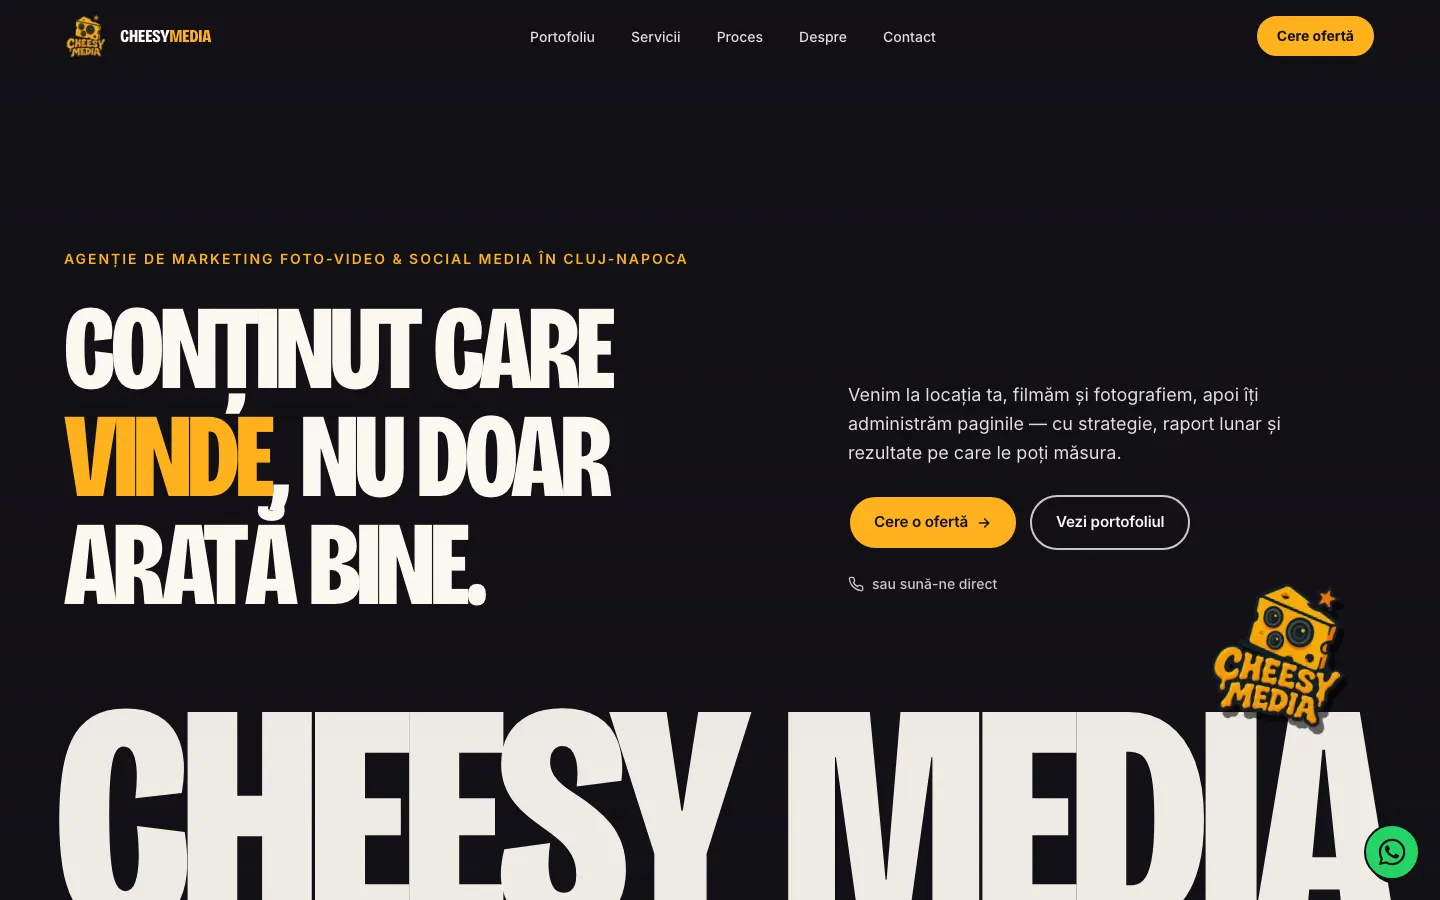
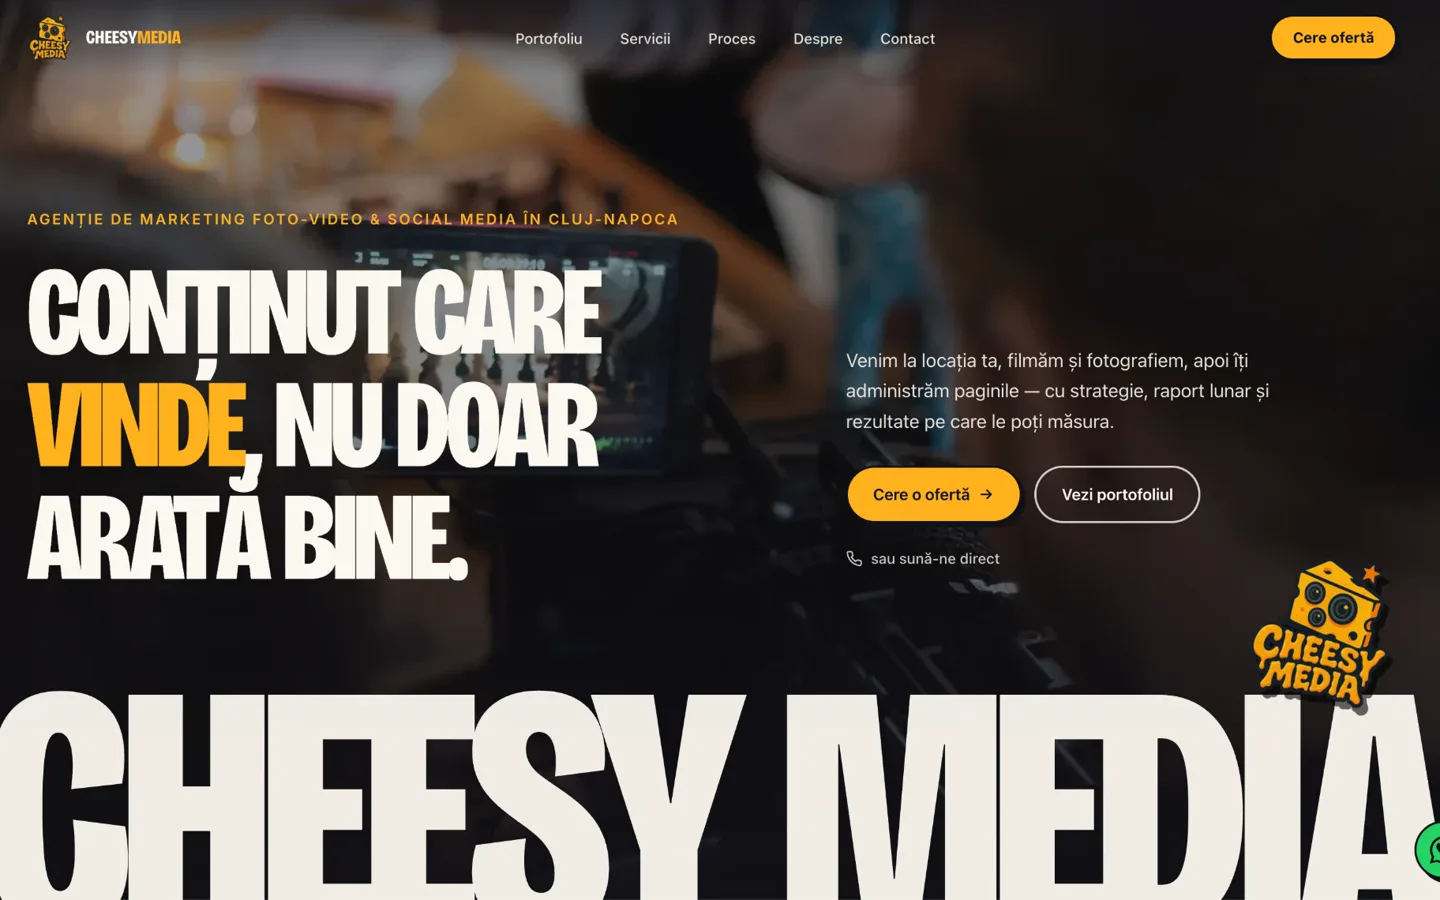
Homepage: brand/proposal language (promises section), hero label without dot; new Cheesy Media screenshots

diff --git a/app/page.tsx b/app/page.tsx
@@ -37,6 +37,14 @@ const faq = [
   },
 ];
 
+/* The four perceptions in BRAND.md §4, in the client's words. */
+const promises = [
+  { t: "Aproape", d: "Vorbești mereu cu omul care face munca. Fără vânzători, fără intermediari." },
+  { t: "Expert, pe limba ta", d: "Știu ce cer Google și asistenții AI și îți explic simplu, fără jargon. Tu decizi în cunoștință de cauză." },
+  { t: "Sincer", d: "Îți spun ce merge, ce lipsește și ce nu se poate garanta. Fără cifre umflate și fără recenzii inventate." },
+  { t: "Grijuliu", d: "Nu fac nimic ireversibil fără acordul tău. La redesign păstrez ce funcționa în Google, iar după lansare rămân alături." },
+];
+
 /* Service tiles: one colour each, like project cards (direction A). */
 const tileStyle = ["bg-ink text-paper", "bg-teal text-ink", "bg-orange text-ink"] as const;
 
@@ -53,7 +61,7 @@ export default function Home() {
       <section id="acasa" aria-labelledby="acasa-titlu" className="relative overflow-hidden bg-paper">
         <Container className="grid gap-12 pb-14 pt-12 sm:pb-20 sm:pt-20 lg:grid-cols-[1.7fr_1fr] lg:items-center">
           <div>
-            <Eyebrow>Web designer freelancer · Cluj-Napoca</Eyebrow>
+            <p className="mb-4 text-sm font-semibold uppercase tracking-[0.12em] text-muted">Web designer · Cluj-Napoca</p>
             <h1 id="acasa-titlu" className="font-serif text-[2.9rem] font-extrabold leading-[0.95] text-ink sm:text-7xl lg:text-[5rem]">
               Clienții te caută.<br />
               Fă-i să te <span className="whitespace-nowrap"><Mark draw>găsească</Mark>.</span>
@@ -63,6 +71,7 @@ export default function Home() {
               <Link href="/servicii/creare-website" className="font-semibold underline decoration-orange decoration-2 underline-offset-4 hover:decoration-ink">creare de site-uri</Link> și{" "}
               <Link href="/servicii/seo-vizibilitate-ai" className="font-semibold underline decoration-orange decoration-2 underline-offset-4 hover:decoration-ink">optimizare SEO</Link>{" "}
               pentru clinici, cabinete de avocatură și afaceri locale, ca să apari în Google și în răspunsurile ChatGPT.
+              {" "}Lucrez singur: eu fac auditul, eu construiesc și tot eu îți răspund.
             </p>
             <div className="mt-9 flex flex-wrap gap-3">
               <Button href="/audit-gratuit-vizibilitate-ai" arrow>Cere auditul gratuit</Button>
@@ -209,7 +218,38 @@ export default function Home() {
         </div>
       </Section>
 
-      {/* 7. A personal letter */}
+      {/* 7. How I work with you: the four perceptions from BRAND.md and the promises from PROPOSAL.md */}
+      <Section id="promisiuni" white>
+        <Eyebrow>Cum lucrez cu tine</Eyebrow>
+        <H2>Ce promit. Și ce <Accent>nu promit.</Accent></H2>
+        <div className="mt-10 grid gap-5 sm:grid-cols-2 lg:grid-cols-4">
+          {promises.map((p) => (
+            <div key={p.t} className="rounded-3xl border-2 border-ink bg-paper p-6">
+              <h3 className="font-serif text-2xl font-extrabold text-ink">{p.t}</h3>
+              <p className="mt-2 text-[17px] leading-relaxed text-ink">{p.d}</p>
+            </div>
+          ))}
+        </div>
+        <div className="mt-5 grid gap-5 lg:grid-cols-2">
+          <div className="rounded-3xl bg-ink p-7 text-paper">
+            <p className="text-sm font-semibold uppercase tracking-[0.12em] text-orange">Promit</p>
+            <ul className="mt-4 space-y-3 text-[17px] leading-relaxed">
+              <li>→ Răspund la orice mesaj în maximum {site.responseTime}.</li>
+              <li>→ Vezi fiecare etapă și nimic nu merge mai departe fără aprobarea ta.</li>
+              <li>→ Îți arăt rezultatele „înainte și după” pe aceleași întrebări din Google și ChatGPT.</li>
+            </ul>
+          </div>
+          <div className="rounded-3xl border-2 border-ink bg-canvas p-7">
+            <p className="text-sm font-semibold uppercase tracking-[0.12em] text-orange-ink">Nu promit</p>
+            <p className="mt-4 text-[17px] leading-relaxed text-ink">
+              Locul 1 în Google sau o recomandare garantată în ChatGPT. Nimeni nu poate garanta asta, iar cine o face nu spune adevărul.
+              Promit un proces măsurabil și transparent.
+            </p>
+          </div>
+        </div>
+      </Section>
+
+      {/* 8. A personal letter */}
       <Section id="despre" white>
         <div className="grid gap-12 lg:grid-cols-[1fr_1.5fr]">
           <div>

diff --git a/components/Shot.tsx b/components/Shot.tsx
@@ -1,6 +1,8 @@
 /* eslint-disable @next/next/no-img-element -- static export: explicit srcset instead of next/image */
 
 const base = "/lucrari/cheesy-media";
+/** Phone shots are 390 wide; the client-supplied home shot is a little shorter than our own captures. */
+const phoneHeight: Record<string, number> = { "site-mobile": 706 };
 
 /** A real project screenshot in a light browser frame. Desktop shots come in 640/960/1440, phone shots in 390/780. */
 export function Shot({
@@ -8,7 +10,7 @@ export function Shot({
 }: { name: string; alt: string; phone?: boolean; sizes: string; eager?: boolean; className?: string; frame?: boolean }) {
   const img = phone ? (
     <img src={`${base}/${name}-390.webp`} srcSet={`${base}/${name}-390.webp 390w, ${base}/${name}-780.webp 780w`}
-      sizes={sizes} width={390} height={778} alt={alt} loading={eager ? undefined : "lazy"} decoding="async" className="block h-auto w-full" />
+      sizes={sizes} width={390} height={phoneHeight[name] ?? 778} alt={alt} loading={eager ? undefined : "lazy"} decoding="async" className="block h-auto w-full" />
   ) : (
     <img src={`${base}/${name}-960.webp`} srcSet={`${base}/${name}-640.webp 640w, ${base}/${name}-960.webp 960w, ${base}/${name}-1440.webp 1440w`}
       sizes={sizes} width={1440} height={900} alt={alt} loading={eager ? undefined : "lazy"} decoding="async" className="block h-auto w-full" />
